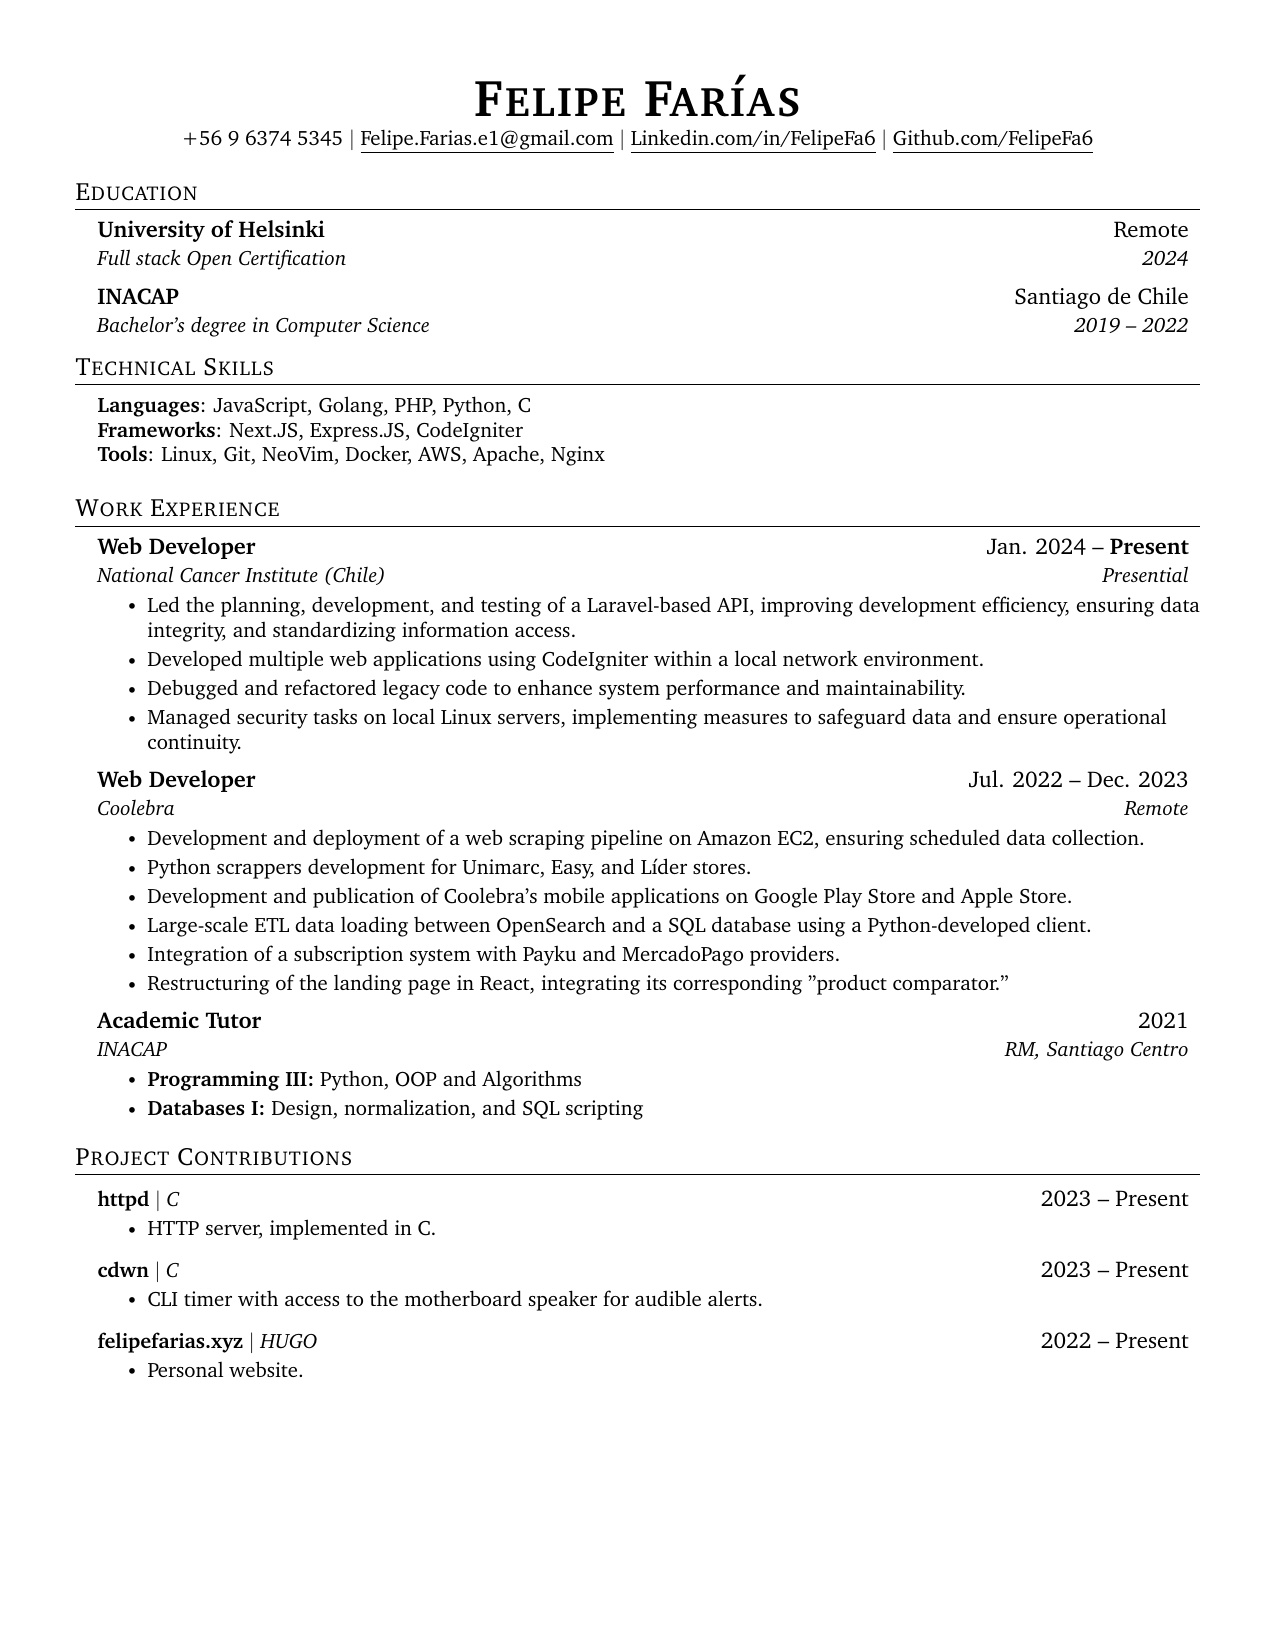
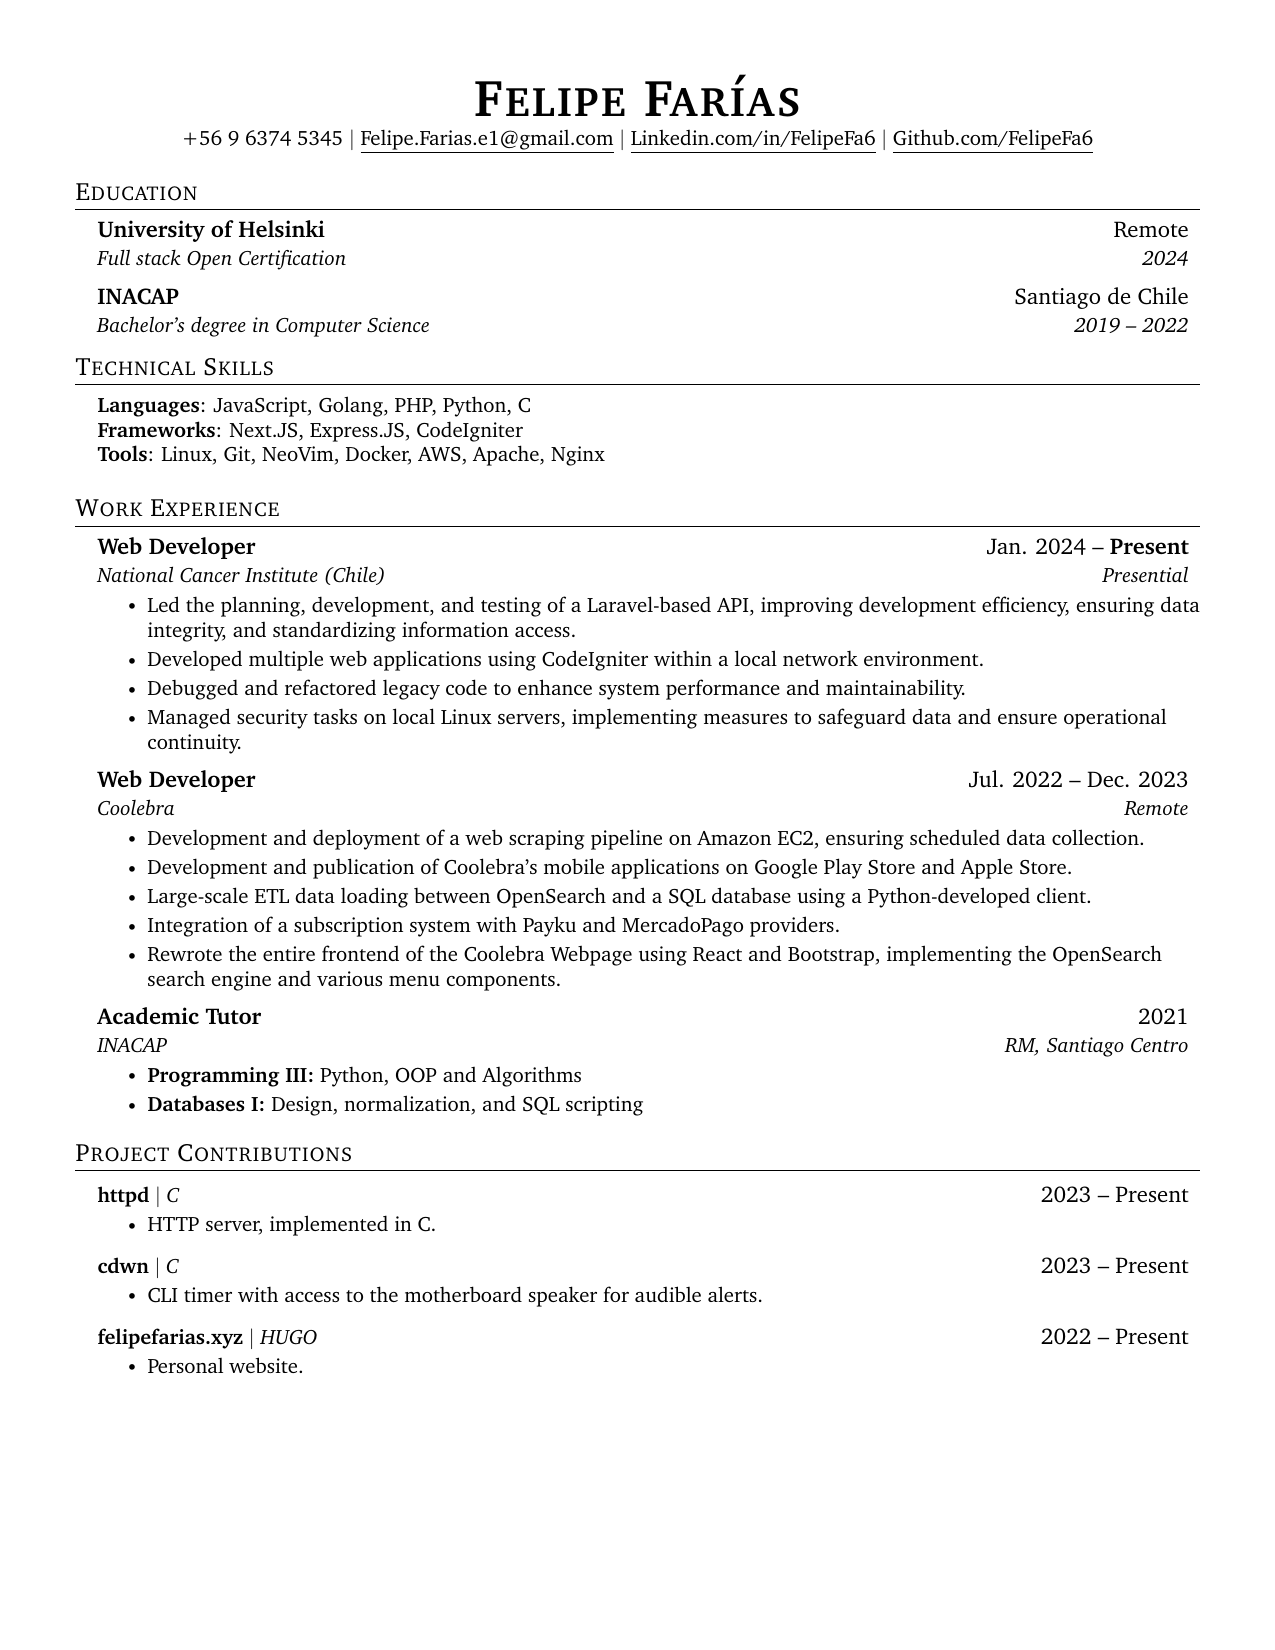
Update cv

diff --git a/main.tex b/main.tex
@@ -98,7 +98,8 @@
 \begin{document}
 \begin{center}
 	\textbf{\Huge \scshape Felipe Farías } \\ \vspace{2pt}
-	\small +56 9 6374 5345 $|$ \href{mailto:felipe.farias.e1@gmail.com}{\underline{Felipe.Farias.e1@gmail.com}} $|$ 
+	\small +56 9 6374 5345 $|$
+    \href{mailto:felipe.farias.e1@gmail.com}{\underline{Felipe.Farias.e1@gmail.com}} $|$ 
 	\href{https://www.linkedin.com/in/felipefa6/}{\underline{Linkedin.com/in/FelipeFa6}} $|$
 	\href{https://github.com/FelipeFa6}{\underline{Github.com/FelipeFa6}}
 \end{center}
@@ -134,22 +135,57 @@
 {Web Developer}{Jan. 2024 -- \bf{Present}}
 {National Cancer Institute (Chile)}{Presential}
 \resumeItemListStart
-\resumeItem{ Led the planning, development, and testing of a Laravel-based API, improving development efficiency, ensuring data integrity, and standardizing information access. }
-\resumeItem{ Developed multiple web applications using CodeIgniter within a local network environment. }
-\resumeItem{ Debugged and refactored legacy code to enhance system performance and maintainability. }
-\resumeItem{ Managed security tasks on local Linux servers, implementing measures to safeguard data and ensure operational continuity. }
+\resumeItem{
+    Led the planning, development, and testing of
+    a Laravel-based API, improving development
+    efficiency, ensuring data integrity, and
+    standardizing information access.
+}
+\resumeItem{
+    Developed multiple web applications using
+    CodeIgniter within a local network
+    environment.
+}
+\resumeItem{
+    Debugged and refactored legacy code to enhance
+    system performance and maintainability.
+}
+\resumeItem{
+    Managed security tasks on local Linux servers,
+    implementing measures to safeguard data and
+    ensure operational continuity.
+}
 \resumeItemListEnd      
 
 \resumeSubheading
 {Web Developer}{Jul. 2022 -- Dec. 2023}
 {Coolebra}{Remote}
 \resumeItemListStart
-\resumeItem{Development and deployment of a web scraping pipeline on Amazon EC2, ensuring scheduled data collection.}
-\resumeItem{Python scrappers development for Unimarc, Easy, and Líder stores.}
-\resumeItem{Development and publication of Coolebra’s mobile applications on Google Play Store and Apple Store.}
-\resumeItem{Large-scale ETL data loading between OpenSearch and a SQL database using a Python-developed client.}
-\resumeItem{Integration of a subscription system with Payku and MercadoPago providers.}
-\resumeItem{Restructuring of the landing page in React, integrating its corresponding "product comparator."}
+\resumeItem{
+    Development and deployment of a web scraping
+    pipeline on Amazon EC2, ensuring scheduled
+    data collection.
+}
+\resumeItem{
+    Development and publication of Coolebra’s
+    mobile applications on Google Play Store and
+    Apple Store.
+}
+\resumeItem{
+    Large-scale ETL data loading between
+    OpenSearch and a SQL database using a
+    Python-developed client.
+}
+\resumeItem{
+    Integration of a subscription system with
+    Payku and MercadoPago providers.
+}
+\resumeItem{
+    Rewrote the entire frontend of the Coolebra
+    Webpage using React and Bootstrap,
+    implementing the OpenSearch search engine and
+    various menu components.
+}
 \resumeItemListEnd      
 
 \resumeSubheading
@@ -162,7 +198,7 @@
 
 \resumeSubHeadingListEnd
 
-%-----------PROJECTS-----------
+% projects
 \section{Project Contributions}
 \resumeSubHeadingListStart
 \resumeProjectHeading
